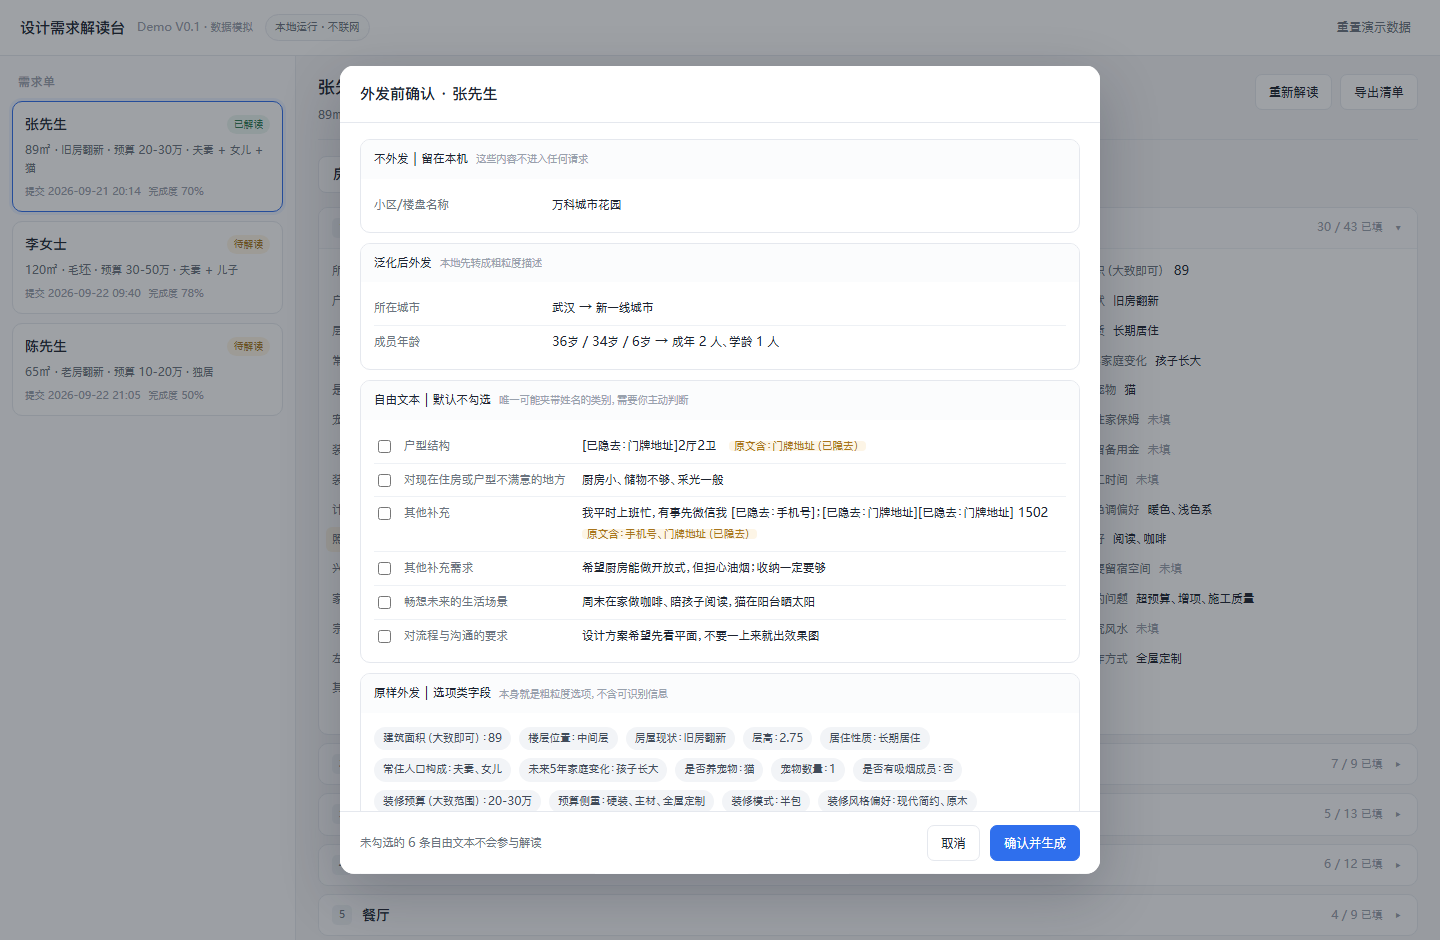
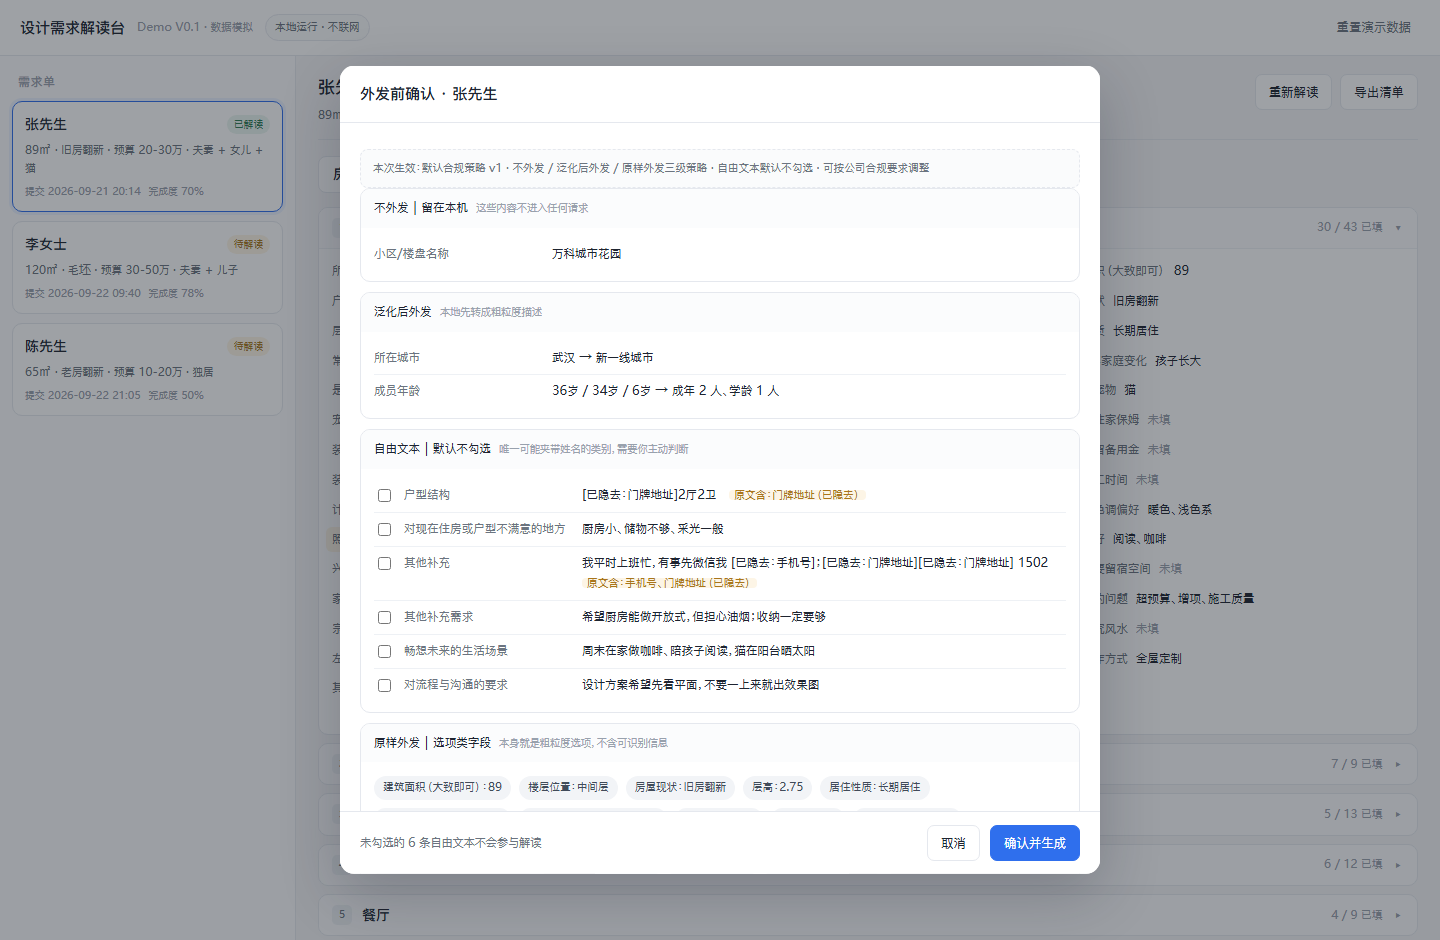
docs: 外发策略改为可按公司合规要求调整（产品文档 V0.9、技术方案 V1.2、Demo 标出生效策略）

Changed region(s): [[0.25, 0.4628, 0.7188, 0.8638], [0.25, 0.1543, 0.6562, 0.4319]]

diff --git a/designer/设计需求解读台_Demo_V0.1.html b/designer/设计需求解读台_Demo_V0.1.html
@@ -449,6 +449,10 @@ function viewList(d) {
 }
 
 /* ===================== 外发前确认 ===================== */
+/* 本次生效的外发策略：策略是可配置的数据，公司按合规口径调整（对应产品文档 7.7） */
+const POLICY = { name: '默认合规策略', version: 'v1' };
+const policyNote = () => '<div class="note">本次生效：' + POLICY.name + ' ' + POLICY.version +
+  ' · 不外发 / 泛化后外发 / 原样外发三级策略 · 自由文本默认不勾选 · 可按公司合规要求调整</div>';
 function openSend() {
   const d = demand();
   const noSend = [], gen = [], free = [], raw = [];
@@ -460,7 +464,7 @@ function openSend() {
     if (isFreeText(f)) { const r = redact(show(v)); free.push([f.id, f.label, r.text, r.hits]); return; }
     raw.push([f.label, show(v)]);
   });
-  const blocks =
+  const blocks = policyNote() +
     grp('不外发｜留在本机', '这些内容不进入任何请求', noSend.map(([k, v]) => line(k, v)).join('')) +
     grp('泛化后外发', '本地先转成粗粒度描述', gen.map(([k, v]) => line(k, v)).join('')) +
     grp('自由文本｜默认不勾选', '唯一可能夹带姓名的类别，需要你主动判断', free.map(([id, k, t, hits]) =>

diff --git a/tools/_designer_template.html b/tools/_designer_template.html
@@ -449,6 +449,10 @@ function viewList(d) {
 }
 
 /* ===================== 外发前确认 ===================== */
+/* 本次生效的外发策略：策略是可配置的数据，公司按合规口径调整（对应产品文档 7.7） */
+const POLICY = { name: '默认合规策略', version: 'v1' };
+const policyNote = () => '<div class="note">本次生效：' + POLICY.name + ' ' + POLICY.version +
+  ' · 不外发 / 泛化后外发 / 原样外发三级策略 · 自由文本默认不勾选 · 可按公司合规要求调整</div>';
 function openSend() {
   const d = demand();
   const noSend = [], gen = [], free = [], raw = [];
@@ -460,7 +464,7 @@ function openSend() {
     if (isFreeText(f)) { const r = redact(show(v)); free.push([f.id, f.label, r.text, r.hits]); return; }
     raw.push([f.label, show(v)]);
   });
-  const blocks =
+  const blocks = policyNote() +
     grp('不外发｜留在本机', '这些内容不进入任何请求', noSend.map(([k, v]) => line(k, v)).join('')) +
     grp('泛化后外发', '本地先转成粗粒度描述', gen.map(([k, v]) => line(k, v)).join('')) +
     grp('自由文本｜默认不勾选', '唯一可能夹带姓名的类别，需要你主动判断', free.map(([id, k, t, hits]) =>
